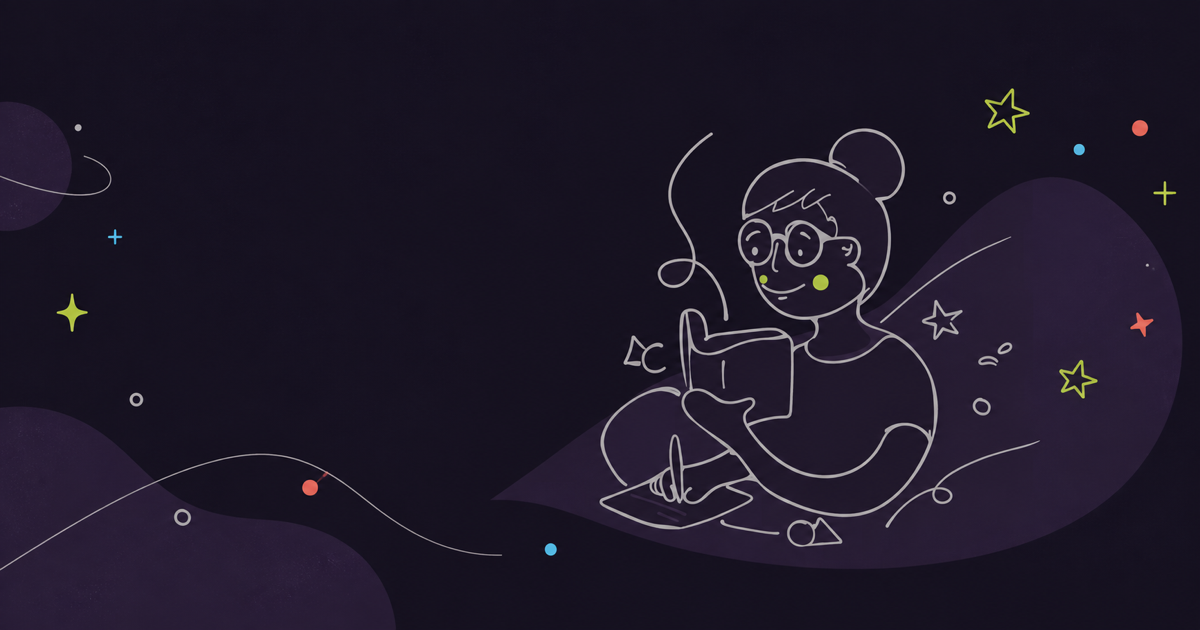
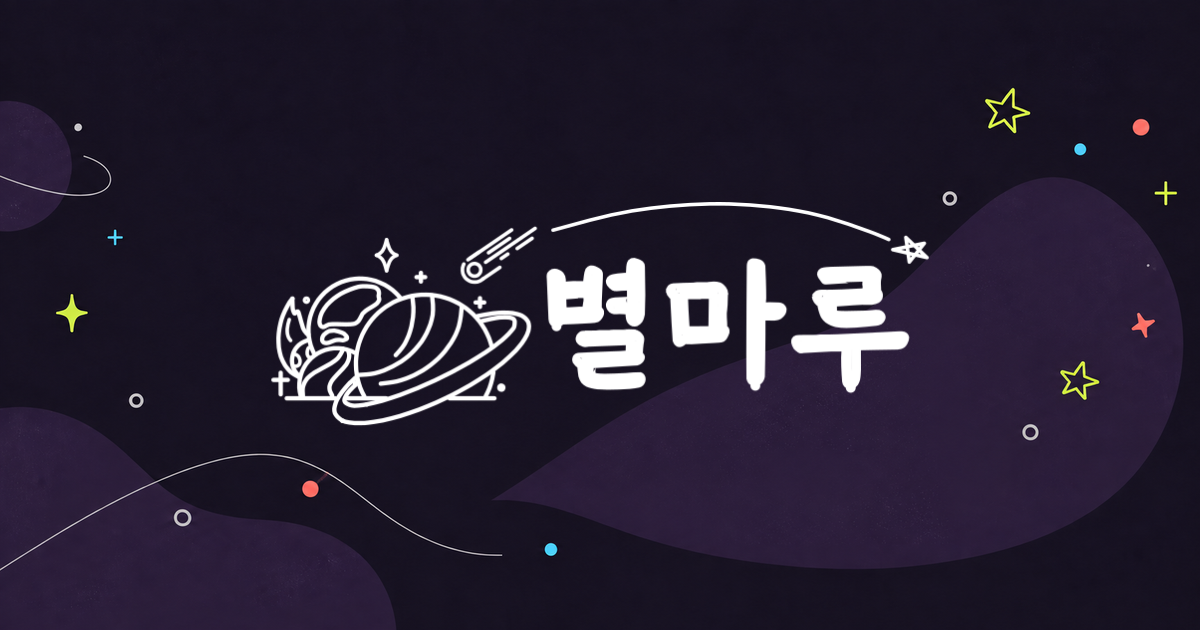
검색·공유 문구를 간결하게 정리하고 OG 이미지를 로고로 교체 (#16)
## 변경 사항

검색 결과와 링크 공유에서 제목·설명을 짧고 구체적으로 보여주고, 공통 Open Graph 이미지에 별마루 로고를 배치합니다.

- 홈: **별마루** / SNS 코스모를 만드는 팀입니다.
- 팀 소개: **팀 소개 · 별마루** / 코스모를 만드는 세 사람의 소개와 인터뷰를 만나보세요.
- 코스모: **코스모 · 별마루** / 한 계정에서 여러 프로필로 활동할 수 있는 SNS입니다.
- OG 이미지의 스파클과 어두운 배경 분위기를 살리고 인물 일러스트를 공식 로고 SVG로 교체했습니다. 배경은 내장 이미지
도구로 편집했으며, 로고는 원본 SVG를 그대로 합성했습니다.
- 기존 빌드·브라우저 검증 스크립트의 제목과 설명 기대값을 정렬했습니다.

![수정한 OG
이미지](https://github.com/byulmaru/byulmaru.co/blob/4489f2a/public/og-image.png?raw=true)

## 검증

- `pnpm run build` 통과: 세 페이지 프리렌더 및 제목·description·Open
Graph·canonical·사이트맵 검증
- 변경한 소스·스크립트의 Prettier 및 ESLint 검사 통과, 브라우저 검증 스크립트 구문 검사 통과
- PNG 1200×630 및 400×210 축소 미리보기 확인, 빌드에 복사된 이미지와 원본 일치 확인

## 중점 리뷰 포인트

- 세 페이지의 검색·공유 문구와 공통 OG 이미지의 조화
- 외부 검색·공유 서비스에서의 실제 표시와 캐시 갱신은 배포 후 확인 필요

<!-- av pr metadata
This information is embedded by the av CLI when creating PRs to track
the status of stacks when using Aviator. Please do not delete or edit
this section of the PR.
```
{"parent":"main","parentHead":"","trunk":"main"}
```
-->

diff --git a/app/routes/about-us.tsx b/app/routes/about-us.tsx
@@ -7,9 +7,8 @@ import { team } from '~/components/team';
 import { useAboutSnap } from '~/components/useAboutSnap';
 
 export function meta() {
-  const title = '별마루 팀 소개 | 코스모를 만드는 사람들';
-  const description =
-    '별마루는 동인 창작 문화를 직접 향유해 온 세 사람이 모여, 오래 머물 수 있는 SNS 코스모를 만드는 팀입니다.';
+  const title = '팀 소개 · 별마루';
+  const description = '코스모를 만드는 세 사람의 소개와 인터뷰를 만나보세요.';
   const url = 'https://byulmaru.co/about-us';
 
   return [

diff --git a/app/routes/home.tsx b/app/routes/home.tsx
@@ -11,9 +11,8 @@ import { PostCarousel } from '~/components/PostCarousel';
 import { team } from '~/components/team';
 
 export function meta() {
-  const title = '별마루 | 창작자를 위한 SNS 코스모를 만드는 팀';
-  const description =
-    '별마루는 동인 창작 문화를 위한 SNS 코스모를 만드는 팀입니다. 좋아하는 작품과 사람을 발견하고 이야기를 이어 갈 수 있는 공간을 만듭니다.';
+  const title = '별마루';
+  const description = 'SNS 코스모를 만드는 팀입니다.';
   const url = 'https://byulmaru.co/';
 
   return [

diff --git a/app/routes/our-work.tsx b/app/routes/our-work.tsx
@@ -9,9 +9,8 @@ import {
 } from '~/components/WorkMotion';
 
 export function meta() {
-  const title = '코스모 | 창작자를 위한 다프로필 SNS — 별마루';
-  const description =
-    '코스모는 하나의 계정에서 여러 프로필을 사용할 수 있는 창작자·동인 커뮤니티를 위한 연합우주 SNS입니다.';
+  const title = '코스모 · 별마루';
+  const description = '한 계정에서 여러 프로필로 활동할 수 있는 SNS입니다.';
   const url = 'https://byulmaru.co/our-work';
 
   return [
